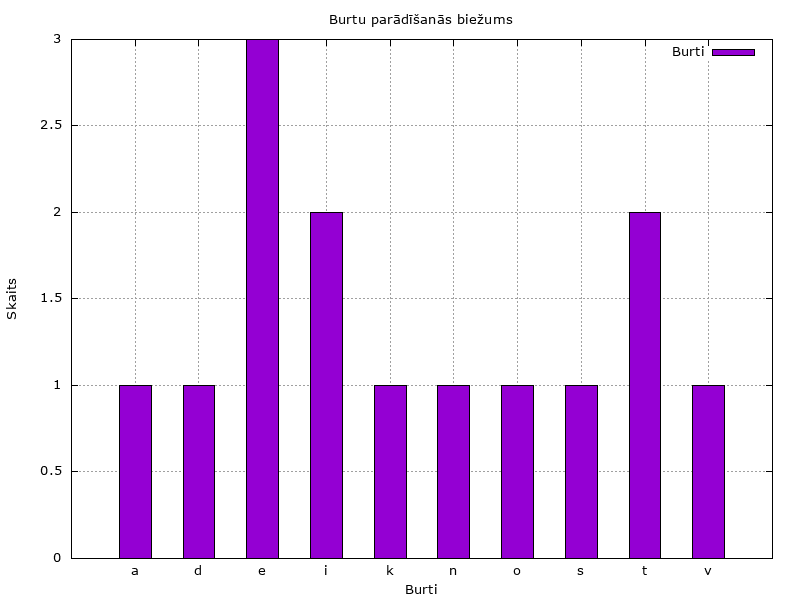
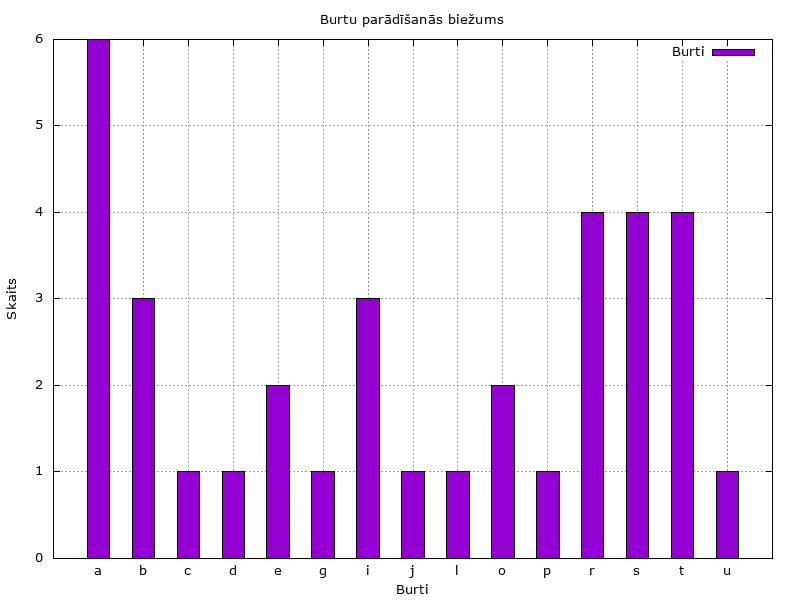
12jan

diff --git a/darbi/Lab_5/5ld_statistics.c b/darbi/Lab_5/5ld_statistics.c
@@ -1,3 +1,4 @@
+// UZDEVUMA PIERAKSTI
 // iet cauri no lietotaja ievadita teikuma un atrod simbolu ar vismazako ascii kodu un ar lielako izmantokot flag, atstarpes un punktus neņem vērā
 // burtu ar videjo vertibu char - burtam, summai ir int, nanoapaļo un atbilstoši parada simbolu kads sanak
 // jaatrod mediana (sakuma jasakarto atbilstošā secībā)
@@ -7,7 +8,6 @@
 // vins iet katrus 2 un iet talak
 // pec pirma apļa pedejais elemnts bus vislielakais, sanak par vienu mazak var parbaudit
 // pec otra pedejie 2
-
 // ar gnuplot jaattelo histofgramma ar cik katrs burts tika attēlots
 
 
